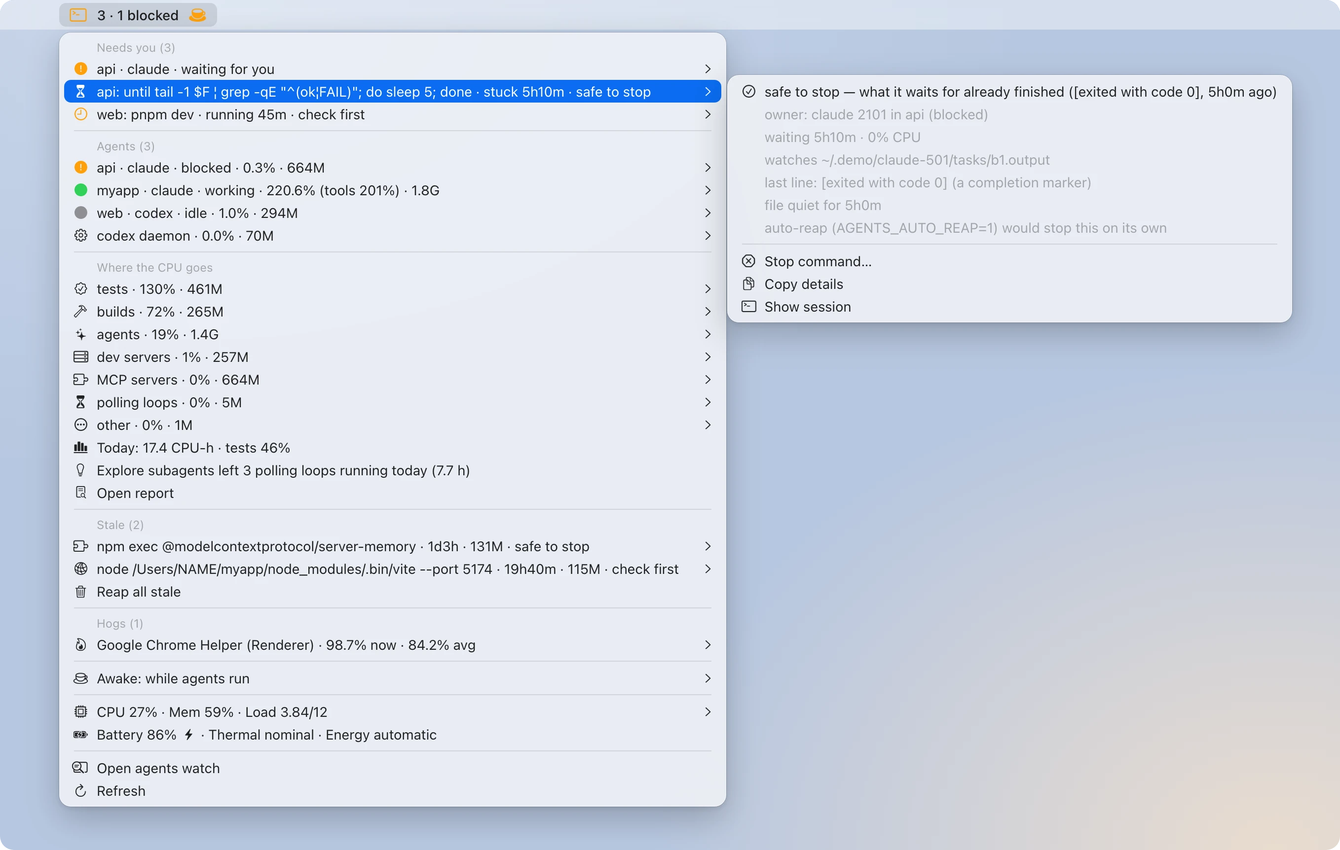
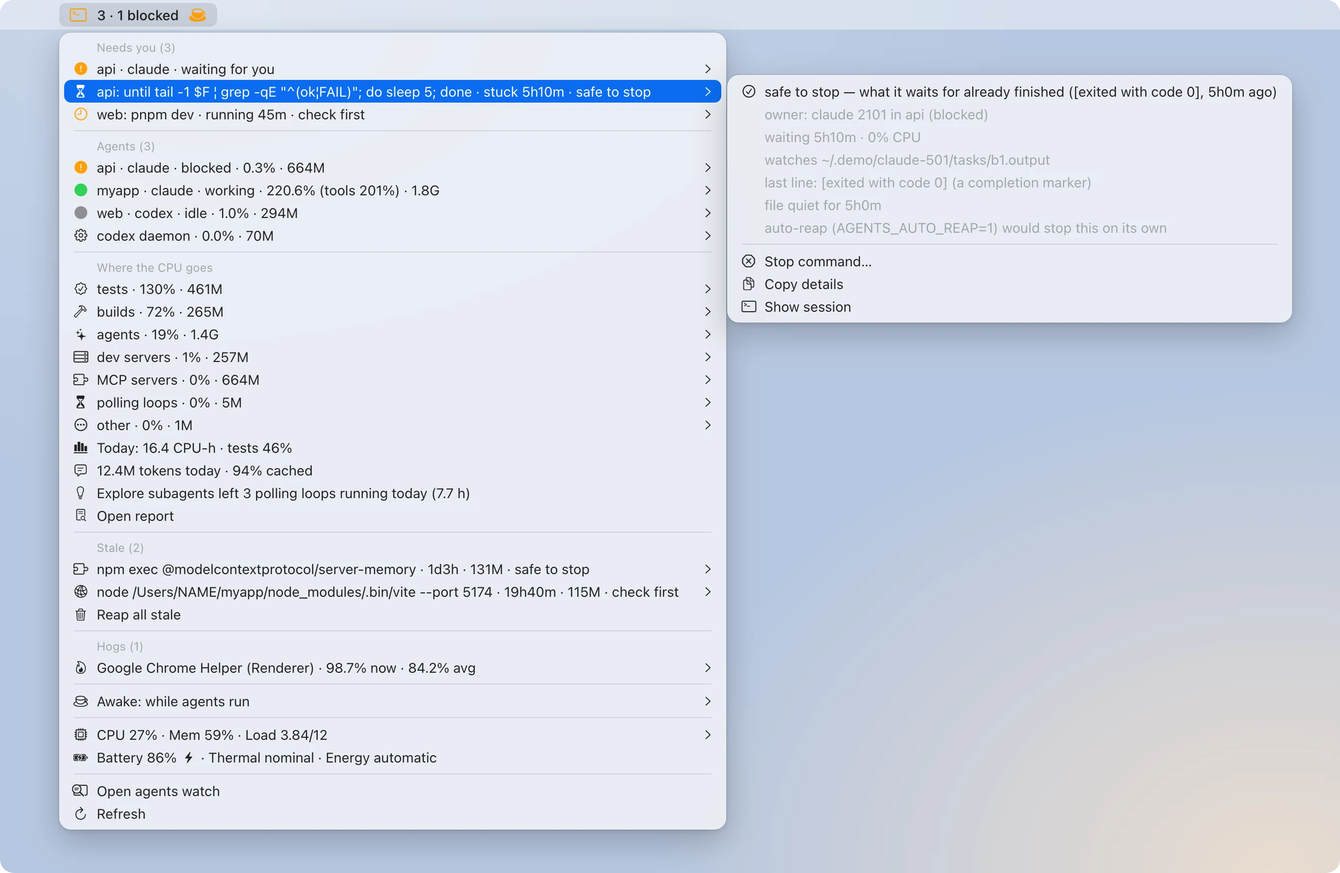
docs(agents): the tokens and denials views, the price file and the menu's tokens row

Changed region(s): [[0.0309, 0.0307, 0.9588, 0.953], [0.1237, 0.0, 0.1546, 0.0307]]

diff --git a/docs/agent-workflows.md b/docs/agent-workflows.md
@@ -207,6 +207,7 @@ agents awake lid 3h       # macOS, opt-in: awake with the lid closed too (asks f
 agents awake status       # our hold, plus who else holds the Mac awake (pmset -g assertions)
 agents json               # machine-readable; `agents tsv` feeds the menu-bar plugin
 agents report --since 7d  # where the CPU went: CPU-hours by job, project and session, and cleanups
+agents report --view tokens  # where the tokens went: by model, agent and project, cache hits, polling
 ```
 
 - **Agents** are processes named `claude` or `codex` (`AGENTS_NAMES` adds more): one row per tree, with its project (the directory's name, or `repo/name` for a worktree under `.claude/worktrees/`), tree CPU and memory, child count, cwd, listening ports and, when Herdr is running, its status for the pane in that directory. Sessions waiting for you (Herdr's `blocked`) come first, then `working`, then `idle` and `done`, then sessions without a status. Herdr's answer is cached for ten seconds in `~/.config/tuidev/run/`; the menu bar never waits for it and refreshes it in the background. The Codex app-server daemon (`codex app-server … --managed-daemon` and its `pid-update-loop`) is long-lived by design: it gets its own `daemon` row and is never stale. `claude --chrome-native-host`, the browser bridge Chrome starts, is not a session.
@@ -389,7 +390,7 @@ With `AGENTS_HISTORY=1` (the default), `agents` keeps a local history in `~/.loc
 
   The menu feeds the ledger: each 10 s refresh of `agents tsv` leaves what its own snapshot saw in `$AGENTS_RUN_DIR/runs.feed/` (no extra `ps` or `lsof`: the tool shells' output files come from the `lsof` that already reads their directories), and the next sample folds it in and removes it. So runs shorter than a minute are recorded with their CPU, to within one refresh. A process that starts and ends between two snapshots is missed. `runs.tsv`, like `history.tsv`, `events.tsv` and `insight.txt`, holds names only. Two short-lived files hold more, to finish a run: `runs.state` (the runs alive at the last sample) and the feed files keep each live run's Claude Code task output path (`…/tasks/ID.output`, under a directory named after the project's path and the session) and the subagent worktree it runs in (`agent-ID`); both go when the run ends or the sample reads the feed, and both are private (`runs.state` 600 in the 700 data directory, the feed files in a 700 directory). The ledger is written by the sample alone (under its lock), and `runs.tsv` is pruned with the history. Nothing is recorded with `AGENTS_HISTORY=0`.
 - **`agents runs [--since 24h|7d|30d|today] [--json]`** (default `24h`) lists the runs that ended in the window, newest first: when, how long, CPU, peak memory, exit code, project, session, agent, command, job and the `dup`/`cleaned` flags. `--json` prints `{schema_version: 1, since, until, window, history, runs: [...]}`, each run with the columns above (`-` as `null`, `dup` and `cleaned` as booleans).
-- **`agents report [--view VIEW] [--since 24h|7d|30d|today] [--json]`** (default `--view summary`, `--since 24h`). The summary reads `history.tsv` and `events.tsv`: total CPU-hours, CPU-hours by job with their share, the top projects with their main job, CPU by session kind, the busiest hours of the day, and the cleanups by reason and kind with the projects that leave things behind most. It opens with **Top insights**, the three most actionable findings from the run ledger (below). With no history yet it says so: the first numbers arrive a minute or two after the menu starts.
+- **`agents report [--view VIEW] [--since 24h|7d|30d|today] [--json]`** (default `--view summary`, `--since 24h`). The summary reads `history.tsv` and `events.tsv`: total CPU-hours, CPU-hours by job with their share, the top projects with their main job, CPU by session kind, the busiest hours of the day, and the cleanups by reason and kind with the projects that leave things behind most. It opens with **Top insights**, the three most actionable findings from the run ledger and the token files (below), and adds a Tokens and a Denials line once there are token files ([Tokens and denials](#tokens-and-denials)). With no history yet it says so: the first numbers arrive a minute or two after the menu starts.
 
 #### The run ledger's views
 
@@ -443,6 +444,12 @@ Each finding gets an impact in CPU seconds, and the summary lists the three larg
 | leaks | an agent type's runs were stopped by a cleanup | their CPU, plus a tenth of the hours they ran (an hour left running counts as 6 CPU-min) |
 | polling | an agent type's polling loops (not cleaned up) waited an hour or more | a tenth of those hours |
 | regression | a project's CPU rose by half and by 0.25 CPU-h or more on the window before | the rise |
+| cache (`tokens`) | a CLI's cache hit rate is below 70%, on 1M input tokens or more | the tokens a 70% rate would have read from the cache |
+| token polling (`tokens`) | model calls that only waited are over 5% of all tokens, on 1M tokens or more | those tokens |
+| compactions (`tokens`) | a session compacted its context 3 times or more | the tokens before those compactions |
+| denials (`denials`) | you denied the same command or tool 3 times or more | a CPU-minute per denial |
+
+Token findings are not CPU: each one counts once it passes its own threshold, and ranks by the tokens at stake, 1,000 tokens weighing as a CPU second, never below the 5 CPU-min floor. Each names its view, which the menu opens.
 
 ```text
 TOP INSIGHTS
@@ -453,8 +460,49 @@ TOP INSIGHTS
 
 Read them as leads, not verdicts: a regression may be a bigger change landing, and duplicates of a test suite may be two worktrees on purpose. The view named in each line holds the detail. Without a ledger (`runs.tsv` missing or empty), nothing is guessed: the summary says so in one line, and a ledger view shows the summary with that line.
 
-- **`--json`** prints any view as one object (`schema_version` 1; fields are only ever added). Every view has `view`, `since`, `until`, `window` and `ledger` (false without a ledger, its lists then empty). The summary adds `history`, `cpu_s`, `jobs`, `projects` with their `main_job` and `jobs`, `sessions`, `hours`, `cleanups` (`total`, `by_reason`, `by_kind`, `projects`), `runs` (the window's runs: `count`, `failed`, `dup`, `cleaned`) and `insights` (`kind`, `view`, `impact_s`, `project`, `agent`, `cmd`, `job`, `text`). `runs` has `runs`, `cpu_s`, `exit_known`, `failed`, `commands` (every command: `project`, `cmd`, `job`, `runs`, `cpu_s`, `median_s`, `p90_s`, `max_s`, `exit_known`, `failed`, `fail_pct`, `dups`, `dup_cpu_s`, `reruns`, `rerun_cpu_s`) and `slowest`; `waste` has `run_cpu_s`, `duplicates`, `cleaned` (with `agents` and `jobs`), `wait` and `reruns`; `trends` has `previous` (`since`, `until`), `projects` and `jobs` (`cpu_s`, `prev_cpu_s`, `runs`, `prev_runs`, `median_s`, `prev_median_s`, `more_cpu`, `slower`); `agents` has `runs`, `cpu_s` and `agents` (`agent`, `runs`, `cpu_s`, `pct`, `exit_known`, `failed`, `dups`, `dup_cpu_s`, `cleaned`, `cleaned_cpu_s`, `cleaned_s`, `wait_runs`, `wait_s`).
+- **`--json`** prints any view as one object (`schema_version` 1; fields are only ever added). Every view has `view`, `since`, `until`, `window` and `ledger` (false without a ledger, its lists then empty). The summary adds `history`, `cpu_s`, `jobs`, `projects` with their `main_job` and `jobs`, `sessions`, `hours`, `cleanups` (`total`, `by_reason`, `by_kind`, `projects`), `runs` (the window's runs: `count`, `failed`, `dup`, `cleaned`) and `insights` (`kind`, `view`, `impact_s`, `project`, `agent`, `cmd`, `job`, `text`). `runs` has `runs`, `cpu_s`, `exit_known`, `failed`, `commands` (every command: `project`, `cmd`, `job`, `runs`, `cpu_s`, `median_s`, `p90_s`, `max_s`, `exit_known`, `failed`, `fail_pct`, `dups`, `dup_cpu_s`, `reruns`, `rerun_cpu_s`) and `slowest`; `waste` has `run_cpu_s`, `duplicates`, `cleaned` (with `agents` and `jobs`), `wait` and `reruns`; `trends` has `previous` (`since`, `until`), `projects` and `jobs` (`cpu_s`, `prev_cpu_s`, `runs`, `prev_runs`, `median_s`, `prev_median_s`, `more_cpu`, `slower`); `agents` has `runs`, `cpu_s` and `agents` (`agent`, `runs`, `cpu_s`, `pct`, `exit_known`, `failed`, `dups`, `dup_cpu_s`, `cleaned`, `cleaned_cpu_s`, `cleaned_s`, `wait_runs`, `wait_s`). The summary also has `tokens` (`calls`, `total`, `in`, `cache_write`, `cache_read`, `out`, `cache_hit_pct`, `poll_tokens`, `poll_pct`, `est_usd`, `compactions`) and `denials` (`count`, `classifier`, `user`, `safety`), each `null` without its file; the `tokens` and `denials` views are below.
 - **The menu's insight.** `agents_insight_write` (in `lib/agents/report.sh`) writes today's top insight to `insight.txt` (`epoch until view text`), at most every 5 minutes, at the end of each sample; `agents tsv` passes it on while it is current (an hour, and never past midnight), and the menu shows it under Today.
+
+#### Tokens and denials
+
+Each `agents sample` also reads what the Claude Code and Codex transcripts on disk logged since the last one (`~/.claude/projects`, `~/.codex/sessions`), and keeps four more files beside the history, private and pruned with it, tab-separated:
+
+- `tokens.tsv`, one row per API message (Claude Code writes one message as several lines; each counts once) or Codex turn: `epoch cli project session agent model in cache_write cache_read out poll`. `agent` is `main`, the subagent type, or `-`; `poll` is 1 when every tool call in that message only waited (a sleep loop, reading a background task's output). Codex's input counts its cached part as `cache_read`, so `in` is the uncached rest. `tokens.today` holds today's sums, for the menu.
+- `compacts.tsv`: `epoch cli project session agent trigger pre_tokens post_tokens` (`trigger` is `auto` or `manual`).
+- `denials.tsv`: `epoch cli project session agent tool by reason subject`. `by` is `classifier` (auto mode's classifier; `reason` is its tag, such as `Git Destructive`), `safety` (a built-in safety check) or `user` (you said no).
+- `limits.tsv`: the latest Codex plan reading, `epoch cli used_percent window_minutes resets_at`. Claude Code doesn't log one.
+
+**Privacy.** These files hold counts and names only: a model, a project, a subagent type, a tool. A denial's `subject` never includes arguments: a command and its subcommand (`git push`, `npm install`, `docker run`), else the tool's name (`Edit`), and for a web fetch only the host. Nothing is sent anywhere: the report reads the files on this machine, and `AGENTS_HISTORY=0` records none of them.
+
+- **`agents report --view tokens`** (default `--since 24h`): the total (input, cache writes, cache reads and output, all counted), the cache hit rate (cache reads over the input side: `in + cache_write + cache_read`), then tables by model, CLI, agent type and project (the top 8; ties by name), each with its share, its split and its hit rate. Then the tokens of model calls that only waited, by agent type; context compactions (auto and manual, the average size before, the sessions that compacted most); and the Codex plan's headroom from its latest reading (the share of the window used, the window, and when it resets, in local time).
+- **`agents report --view denials`**: the denials by who denied them, then by subject (with the classifier's most frequent reason), the classifier's reasons, agent types and projects, and a hint for each command or tool denied twice or more by you or the classifier:
+
+```text
+$ agents report --view denials
+agents report · denials · last 24h
+
+DENIED 11 · 4 by the classifier · 6 by you · 1 by a safety check
+
+  SUBJECT                TOOL        DENIED  CLASSIFIER   YOU SAFETY  REASON
+  git push               Bash             4           4     0      0  Git Destructive
+  npm install            Bash             3           0     3      0  -
+  Edit                   Edit             2           0     2      0  -
+  example.com            WebFetch         1           0     1      0  -
+  rm                     Bash             1           0     0      1  -
+
+REASONS      Git Destructive 4
+BY AGENT     main 7 · Explore 3 · (unknown) 1
+BY PROJECT   app 8 · shop 3
+
+REPEATED
+  `git push` denied ×4 by the classifier [Git Destructive] — expected: auto mode holds it for you; run it yourself, or allow it if it is routine
+  `npm install` denied ×3 by you — consider an allow rule, or an instruction not to try it
+  `Edit` denied ×2 by you — consider an allow rule, or an instruction not to try it
+```
+
+  A command you keep denying is either one agents should be allowed to run (an `allow` rule in `~/.claude/settings.json`) or one they should stop proposing (a line in your instructions); either saves the round-trip. A classifier denial of a risky command is auto mode doing its job.
+- **The cost estimate.** tuidev ships no prices: they change, and they depend on your plan. Copy [`agents-prices.example.tsv`](../configs/agents/agents-prices.example.tsv) to `~/.config/tuidev/agents-prices.tsv` (or set `AGENTS_PRICES`) and add a line per model, `MODEL_PREFIX IN CACHE_WRITE CACHE_READ OUT`, in US dollars per million tokens, from [Anthropic's](https://www.anthropic.com/pricing) and [OpenAI's](https://openai.com/api/pricing/) pricing pages. A model takes the line with the longest prefix of its name (of a prefix listed twice, the later line); a malformed line is reported and ignored. The tokens view then adds an `EST $` column and a total, labelled an estimate, with `-` for a model no line matches (its tokens are left out of the total, and the view says how many models that is), and the summary's Tokens line adds `est. $`. On a subscription it is what the same tokens would cost on the API, not what you pay. Without the file there is no `$` anywhere.
+- **`--json`.** `tokens` has `data` (false without `tokens.tsv`), `priced`, `totals` and one array per breakdown, `models`, `clis`, `agents` and `projects`, each row with its name, `pct`, `calls`, `in`, `cache_write`, `cache_read`, `out`, `total`, `cache_hit_pct`, `est_usd` (`null` without a price) and `unpriced_tokens` (`null` without a price file); then `polling` (`calls`, `tokens`, `pct`, `agents`), `compactions` (`count`, `auto`, `manual`, `avg_pre_tokens`, `sessions`) and `codex_limits` (`as_of`, `used_percent`, `window_minutes`, `resets_at`, or `null`). `denials` has `data`, `denials`, `by` (`classifier`, `user`, `safety`), `reasons`, `subjects` (`subject`, `tool`, `count`, `classifier`, `user`, `safety`, `reason`), `agents`, `projects` and `hints` (`subject`, `tool`, `by`, `count`, `reason`, `text`).
 
 ### Menu bar (SwiftBar, macOS)
 
@@ -468,7 +516,7 @@ On macOS the pack also installs [SwiftBar](https://swiftbar.app) and its `agents
 - **Menu**, in the order of `AGENTS_BAR_SECTIONS` (sections with nothing to show are left out):
   - **Needs you:** sessions Herdr reports as blocked, waiting for input or a permission; commands running more than once (`myapp: 3× go test running`, with Stop duplicates (keep newest)…) commands running longer than `AGENTS_TOOL_LONG` (with Stop command…), and polling loops flagged `stuck` (`myapp: until tail -1 $F … · stuck 3h27m`, an orange hourglass, with Stop command…). A polling loop that is not stuck stays out of it. Stuck loops and long or duplicate commands tint the icon orange, but only blocked sessions count in the title's `· N blocked`. Each stuck or long command ends with its verdict (`· safe to stop`, `· check first`, `· informational`; orange for the first two, gray otherwise; see [Needs you](#needs-you-is-it-safe-to-stop)), and its submenu holds the full verdict, the evidence and the auto-reap note, then Stop command… (asks first), Copy details (`agents why --copy`) and Show session (`agents ps` of the owning session in your terminal). Stopping is one choice among those, not the only one.
   - **Agents:** one line per session: project, kind, status, CPU and memory, with a dot colored by status (orange blocked, green working, gray idle). When its commands use most of the CPU the row says so (`735% (tools 728%)`). Clicking it shows the project in Finder. Its submenu holds the full path, pid, age, children and ports; Running (N), one line per command (command, age, CPU, origin, flags) with Stop command… (asks first); the MCP servers on one line; Stop duplicates (keep newest)… when a command runs twice; and Kill session…, Copy path, Open in Finder and Copy PID. The Codex daemon follows on its own line with a gear.
-  - **Where the CPU goes:** the CPU of agent work right now by job type, busiest first (`tests · 412% · 1.1G`), each with a submenu of the sessions behind it (project, kind, CPU, memory; clicking one shows its project in Finder). Then `Today: 3.4 CPU-h · tests 40%` from the history, today's top insight when there is one (a lightbulb with what it found, at most 70 characters; hover for the whole sentence and its advice, click to open that view of the report), and Open report, which opens `agents report` in your terminal. Each refresh that finds the last sample a minute old starts `agents sample` in the background; the menu never waits for it.
+  - **Where the CPU goes:** the CPU of agent work right now by job type, busiest first (`tests · 412% · 1.1G`), each with a submenu of the sessions behind it (project, kind, CPU, memory; clicking one shows its project in Finder). Then `Today: 3.4 CPU-h · tests 40%` from the history, today's tokens with the share read from the prompt cache (`12.4M tokens today · 94% cached`, from `tokens.today`; it opens today's [tokens view](#tokens-and-denials)), today's top insight when there is one (a lightbulb with what it found, at most 70 characters; hover for the whole sentence and its advice, click to open that view of the report), and Open report, which opens `agents report` in your terminal. Each refresh that finds the last sample a minute old starts `agents sample` in the background; the menu never waits for it.
   - **Stale:** each with its verdict (a helper is safe to stop; a server is check first), the evidence, Kill tree and Copy details, plus Reap all stale, which kills exactly the processes listed, not whatever is stale when you click.
   - **Hogs:** each with Terminate (SIGTERM, your own processes only).
   - **Awake:** the state (off, while agents run, time left, `lid closed · 2h41m left`), with a check mark on the active choice among Until turned off, For 1 hour, For 3 hours, While agents run and Off, plus who holds the Mac awake. A Lid closed too… group offers 1, 3 and 8 hours (up to `AGENTS_LID_MAX`; `AGENTS_LID=0` hides it), each running `agents awake lid` and asking for your password. While lid mode is on, End lid mode now… ends it (one dialog). When sleep is disabled with nothing to restore it, a red Restore lid sleep… item leads Needs you and the Awake section. A menu action has no terminal, so lid mode's results come back as macOS notifications: on, failed to start (and that sleep was restored), cancelled, restored.
@@ -546,6 +594,7 @@ The pack places a fully commented [`agents.conf`](../configs/agents/agents.conf)
 | `AGENTS_NO_HERDR` | empty | `1` skips the Herdr status lookup |
 | `AGENTS_HISTORY` | `1` | Keep a local history under `~/.local/state/tuidev/agents` (names only, never command lines; nothing leaves the machine). `0` records nothing |
 | `AGENTS_HISTORY_DAYS` | `30` | Days of history kept |
+| `AGENTS_PRICES` | `~/.config/tuidev/agents-prices.tsv` | Your price file for the [token report's estimate](#tokens-and-denials), an absolute or `~/` path; none ships, and without it the report shows tokens only |
 | `AGENTS_JOB_TEST` | empty | An extended regex added to the built-in `test` patterns ([job types](#where-the-cpu-goes-job-types)) |
 | `AGENTS_JOB_BUILD` | empty | The same for `build` |
 | `AGENTS_JOB_SERVER` | empty | The same for `server` |

diff --git a/README.md b/README.md
@@ -21,7 +21,7 @@ You run Claude Code in one tab, Codex in another, and a long job on a Linux box 
 tuidev is shell scripts and configs for coding with AI agents from the terminal on macOS and Linux. Claude Code is the primary CLI and Codex the second: run them in a Ghostty tab and review the diff in VS Code or Cursor. It installs a small core, and everything else is an opt-in pack.
 
 - **[Every agent, on every machine, in one sidebar](#every-agent-on-every-machine-in-one-sidebar):** Herdr shows which agent needs you, here or on your always-on box.
-- **[Cleanup with evidence](#cleanup-with-evidence):** `agents` finds what sessions left behind, says whether it is safe to stop and why, and shows where the CPU went.
+- **[Cleanup with evidence](#cleanup-with-evidence):** `agents` finds what sessions left behind, says whether it is safe to stop and why, and shows where the CPU and the tokens went.
 - **[In your menu bar](#in-your-menu-bar):** the same on macOS, one click away, with keep-awake and a system view.
 - **[Sandboxed by default](#sandboxed-by-default):** Claude Code's and Codex's own sandboxes on, and `sbx` for everything else.
 - **[A modern shell in one command](#a-modern-shell-in-one-command):** Ghostty, zsh and the CLI tools you and your agents both reach for.
@@ -39,7 +39,7 @@ tuidev is shell scripts and configs for coding with AI agents from the terminal 
 
 Every `claude` session starts its own MCP servers, and its subagents start test runs, dev servers and polling loops. When a session crashes, or a subagent hands back its report, some of that keeps running. `agents` (`--pack monitoring`) lists each session with what it runs, flags what was left behind, and gives every flagged process a verdict with its evidence, so you stop the right thing and leave the rest.
 
-<img src="docs/assets/cleanup.gif" width="800" alt="Three commands in a terminal. agents lists three sessions; under the Claude Code session in api, a polling loop, until tail -1 $F | grep -qE &quot;^(ok|FAIL)&quot;; do sleep 5; done, has waited 5h10m and is flagged wait and stuck. agents why 2120 explains it: verdict, safe to stop, because what it waits for already finished ([exited with code 0], 5h0m ago), with high confidence; the evidence is its owner, its age, the file it watches, that file's last line and how long it has been quiet, then how to look and how to stop it. agents report opens with its top insights (Explore subagents left 3 polling loops running for 7.7 hours; api's CPU is up 147 percent on the day before, mostly its build; myapp's tests ran 4 duplicates), then shows the CPU-hours of agent work in the last 24 hours by job, with tests first, by project and session, the busiest hours, and the cleanups by reason.">
+<img src="docs/assets/cleanup.gif" width="800" alt="Three commands in a terminal. agents lists three sessions; under the Claude Code session in api, a polling loop, until tail -1 $F | grep -qE &quot;^(ok|FAIL)&quot;; do sleep 5; done, has waited 5h10m and is flagged wait and stuck. agents why 2120 explains it: verdict, safe to stop, because what it waits for already finished ([exited with code 0], 5h0m ago), with high confidence; the evidence is its owner, its age, the file it watches, that file's last line and how long it has been quiet, then how to look and how to stop it. agents report opens with its top insights (Explore subagents left 3 polling loops running for 7.7 hours; api's CPU is up 147 percent on the day before, mostly its build; myapp's tests ran 4 duplicates), then shows the CPU-hours of agent work in the last 24 hours by job, with tests first, by project and session, the busiest hours, the tokens (17.6M, 94% cache hits, 2% polling), one denial, and the cleanups by reason.">
 
 <sub>The demo fixtures and a made-up week of history, rendered with `make screenshots`.</sub>
 
@@ -52,15 +52,17 @@ Every `claude` session starts its own MCP servers, and its subagents start test 
   1. Explore subagents left 3 polling loops running in 24h (7.7 h) — have them stop what they start, or set AGENTS_AUTO_REAP=1
   ```
 
+- **Where the tokens go.** `agents report --view tokens` reads the Claude Code and Codex transcripts already on disk: tokens by model, CLI, subagent type and project, the cache hit rate, what polling cost, context compactions and the Codex plan's headroom, with a dollar estimate once you add your own price file. `--view denials` shows which commands you or auto mode keep denying, and what to change. All local; nothing is sent anywhere.
+
 [Local processes: `agents`](docs/agent-workflows.md#local-processes-agents---pack-monitoring)
 
 ## In your menu bar
 
-On macOS, the same pack adds a [SwiftBar](https://swiftbar.app) menu. Sessions waiting for you come first (with Herdr), then each flagged command with its verdict, and Stop, Copy details and Show session in its submenu. Below them: every session, the CPU by job with today's CPU-hours and top insight, stale processes and hogs, and CPU, memory, battery and thermal pressure. It keeps the Mac awake while agents run, and with the lid closed too: each time it asks for your password, it is always time-boxed, and a guard turns lid sleep back on at timeout, on low battery or when the Mac runs hot.
+On macOS, the same pack adds a [SwiftBar](https://swiftbar.app) menu. Sessions waiting for you come first (with Herdr), then each flagged command with its verdict, and Stop, Copy details and Show session in its submenu. Below them: every session, the CPU by job with today's CPU-hours, tokens (`12.4M tokens today · 94% cached`) and top insight, stale processes and hogs, and CPU, memory, battery and thermal pressure. It keeps the Mac awake while agents run, and with the lid closed too: each time it asks for your password, it is always time-boxed, and a guard turns lid sleep back on at timeout, on low battery or when the Mac runs hot.
 
 <picture>
   <source media="(prefers-color-scheme: dark)" srcset="docs/assets/menu-dark.webp">
-  <img src="docs/assets/menu-light.webp" width="800" alt="The agents menu open under its menu-bar item, which reads 3 · 1 blocked with a cup for keep-awake. Needs you lists the blocked api session, a polling loop in api stuck for 5h10m marked safe to stop, and a dev server in web running 45 minutes marked check first. The loop's submenu is open: safe to stop, what it waits for already finished ([exited with code 0], 5h0m ago), its owner, how long it has waited, the file it watches and that file's last line, that auto-reap would stop it, then Stop command…, Copy details and Show session. Below: Agents with three sessions and the Codex daemon; Where the CPU goes, with tests at 130 percent, builds, agents, dev servers, MCP servers, polling loops and other, then today's CPU-hours, with tests the largest share, and today's top insight, Explore subagents left 3 polling loops running today (7.7 h); Stale with two items and Reap all stale; Hogs; Awake: while agents run; CPU, memory and load; battery, thermal pressure and energy mode.">
+  <img src="docs/assets/menu-light.webp" width="800" alt="The agents menu open under its menu-bar item, which reads 3 · 1 blocked with a cup for keep-awake. Needs you lists the blocked api session, a polling loop in api stuck for 5h10m marked safe to stop, and a dev server in web running 45 minutes marked check first. The loop's submenu is open: safe to stop, what it waits for already finished ([exited with code 0], 5h0m ago), its owner, how long it has waited, the file it watches and that file's last line, that auto-reap would stop it, then Stop command…, Copy details and Show session. Below: Agents with three sessions and the Codex daemon; Where the CPU goes, with tests at 130 percent, builds, agents, dev servers, MCP servers, polling loops and other, then today's CPU-hours, with tests the largest share, 12.4M tokens today, 94% from the cache, and today's top insight, Explore subagents left 3 polling loops running today (7.7 h); Stale with two items and Reap all stale; Hogs; Awake: while agents run; CPU, memory and load; battery, thermal pressure and energy mode.">
 </picture>
 
 <sub>The plugin's actual output over the demo fixtures, drawn as a macOS menu by `scripts/render_menu.sh`; it is not a screenshot of a real menu bar. [More submenus, animated](docs/assets/menu.gif).</sub>
@@ -159,7 +161,7 @@ Compose your own with `--core`, `--remote`, `--sandbox`, `--ui` and `--extras`, 
 |---------------|------|
 | `ai-clis` | Claude Code and Codex settings with their native sandboxes on, and git and gh write gates |
 | `orchestration` | Tiered subagents and the delegation skill for Claude Code and Codex |
-| `monitoring` | `agents` (cleanup verdicts, CPU by job), its SwiftBar menu (macOS), `lazydocker` and `bottom` |
+| `monitoring` | `agents` (cleanup verdicts, CPU by job, tokens by model and agent), its SwiftBar menu (macOS), `lazydocker` and `bottom` |
 | `tmux`, `herdr` | Durable sessions; Herdr's agent-aware runtime |
 | `nvim`, `vim` | LazyVim, or a zero-plugin vimrc for servers |
 | `sandbox-container` | Tier 2 sandboxing in a container runtime (Apple `container`, Podman or Docker) |

diff --git a/docs/engineering.md b/docs/engineering.md
@@ -69,7 +69,7 @@ docs/assets/            README images; tapes/ holds their VHS sources and demo f
 | `history.sh` | `agents sample`: `history.tsv`, `today.tsv`, `sample.state`, pruning |
 | `runs.sh` | the run ledger (`runs.state`, `runs.tsv`), the menu's run feed, `agents runs` |
 | `transcript.sh` | reading Claude Code transcripts: task-id lines, subagent meta and type, which agent started a task (shared by `hooks.sh` and `runs.sh`) |
-| `report.sh` | `agents report` and its views, `insight.txt` (`agents_insight_write`, the menu's top insight) |
+| `report.sh` | `agents report` and its views, `insight.txt` (`agents_insight_write`, the menu's top insight), the menu's tokens row (from `tokens.today`) |
 | `render.sh` | the human views: the table, its status lines, `agents watch` |
 | `json.sh` | `agents json`, a versioned contract |
 | `tsv.sh` | `agents tsv`, what the SwiftBar plugin reads |
@@ -79,7 +79,7 @@ docs/assets/            README images; tapes/ holds their VHS sources and demo f
 | `usage.sh` | `agents --help` |
 | `cli.sh` | `agents_main`: options and the subcommand table; `agents cwd` |
 | `awk/lib_*.awk` | awk functions shared by several programs: process-table primitives (`lib_proc`), what a tool shell runs and the name it goes by (`lib_activity`), jobs (`lib_jobs`), JSON strings (`lib_json`), ordering, heapsorts (`lib_sort`), durations and sizes for people (`lib_fmt`) |
-| `awk/*.awk` | one program each (`classify`, `enrich`, `assess`, `render`, `json`, `report`, `sample`, `runs_obs`, `runs`, `runs_view`, `refusal`, `tree`, `new_members`, `hook_*`), run by `_agents_awk` after the libraries it names; `report` comes in parts: `report_fmt` (numbers and cells), `report_runs` (reads `runs.tsv` once for every view), `report_insights`, `report_views` |
+| `awk/*.awk` | one program each (`classify`, `enrich`, `assess`, `render`, `json`, `report`, `sample`, `runs_obs`, `runs`, `runs_view`, `refusal`, `tree`, `new_members`, `hook_*`), run by `_agents_awk` after the libraries it names; `report` comes in parts: `report_fmt` (numbers and cells), `report_runs` (reads `runs.tsv` once for every view), `report_tokens` (`tokens.tsv`, `compacts.tsv`, `limits.tsv`, the price file, and the tokens view), `report_denials` (`denials.tsv` and the denials view), `report_insights`, `report_views` |
 
 The monitoring pack installs each file with `install_config --overwrite`, so the manifest records it and `uninstall.sh` removes it. Adding a module needs no migration; renaming or removing one does, like any installed file. `scripts/lib/test_agents_golden.sh` compares every view and dry run with recorded output byte for byte, and `test_agents_install.sh` runs the installed command outside the repo.
 
@@ -181,7 +181,7 @@ Run these locally, in this order. `make ci-test` runs the first four.
 make lint              # shellcheck -x over every shell file (the list lives in the Makefile)
 make validate-configs  # JSON, TOML, Lua, zsh/sh syntax (CI adds --strict)
 make check-links       # every relative link in every tracked .md resolves
-make test-lib          # scripts/lib/test_*.sh: agents, agents_golden, agents_history, agents_hooks, agents_report, agents_install, agents_needs, agents_runs, config_write, container, contract, gitconfig, migrations, orchestration, pkg, profile, theme, update_packages
+make test-lib          # scripts/lib/test_*.sh: agents, agents_golden, agents_history, agents_hooks, agents_report, agents_report_tokens, agents_install, agents_needs, agents_runs, config_write, container, contract, gitconfig, migrations, orchestration, pkg, profile, theme, update_packages
 make test-core         # core-tagged tests against this machine
 make container-test    # core-tagged tests in an Alpine container (tests scripts and configs, not the installer)
 ```

diff --git a/docs/assets/tapes/README.md b/docs/assets/tapes/README.md
@@ -29,7 +29,7 @@ Besides VHS (`brew install vhs`), the shots need the [Symbols Nerd Font](https:/
 - drops what the renderer's own shell would leak into the shots: `XDG_CONFIG_HOME`, `XDG_DATA_HOME`, `XDG_STATE_HOME`, `XDG_CACHE_HOME`, `ZDOTDIR`, `HISTFILE` and every `ATUIN_*` and `_ZO_*` (zoxide) setting, so neither this bash nor the `cli` tape's `exec zsh -i` reads or writes your history, zoxide database or config;
 - picks a time zone where it is mid-afternoon now, so the made-up history below has a working day behind its "Today", whenever the shots are rendered;
 - builds that home with `demo-setup.sh`: three projects (`myapp`, `api`, `web`), fake `~/.ssh/id_ed25519`, `~/.aws/credentials` and `~/.zshrc` for `sbx` to protect, a `make test` target in `myapp`, a `~/.claude/settings.json`, and the state `agents` reads (a keep-awake record and a Herdr socket);
-- writes the background-task output that the `api` session's polling loop watches (its last line is Claude Code's `[exited with code 0]`, dated 5 hours ago), and, with `demo-history.sh`, a made-up week of `agents sample` history, cleanups and finished runs (`runs.tsv`; fixed noise, ending now) for `agents report`, its Top insights and the menu's Today and insight lines (the insight is written by the real `agents` code, as a sample would);
+- writes the background-task output that the `api` session's polling loop watches (its last line is Claude Code's `[exited with code 0]`, dated 5 hours ago), and, with `demo-history.sh`, a made-up week of `agents sample` history, cleanups, finished runs (`runs.tsv`) and tokens (`tokens.tsv`, `tokens.today`, with a few compactions and denials and a Codex plan reading; fixed noise, ending now) for `agents report`, its Top insights and the menu's Today, tokens and insight lines (the insight is written by the real `agents` code, as a sample would);
 - sets `HOME` to it and draws a two-line prompt shaped like the shipped Starship one, without Starship (the `shell`, `cli` and `tour` tapes start the real one, below);
 - puts `bin/agents` (the demo wrapper) and the repo's `bin/sbx` first on `PATH`.
 
